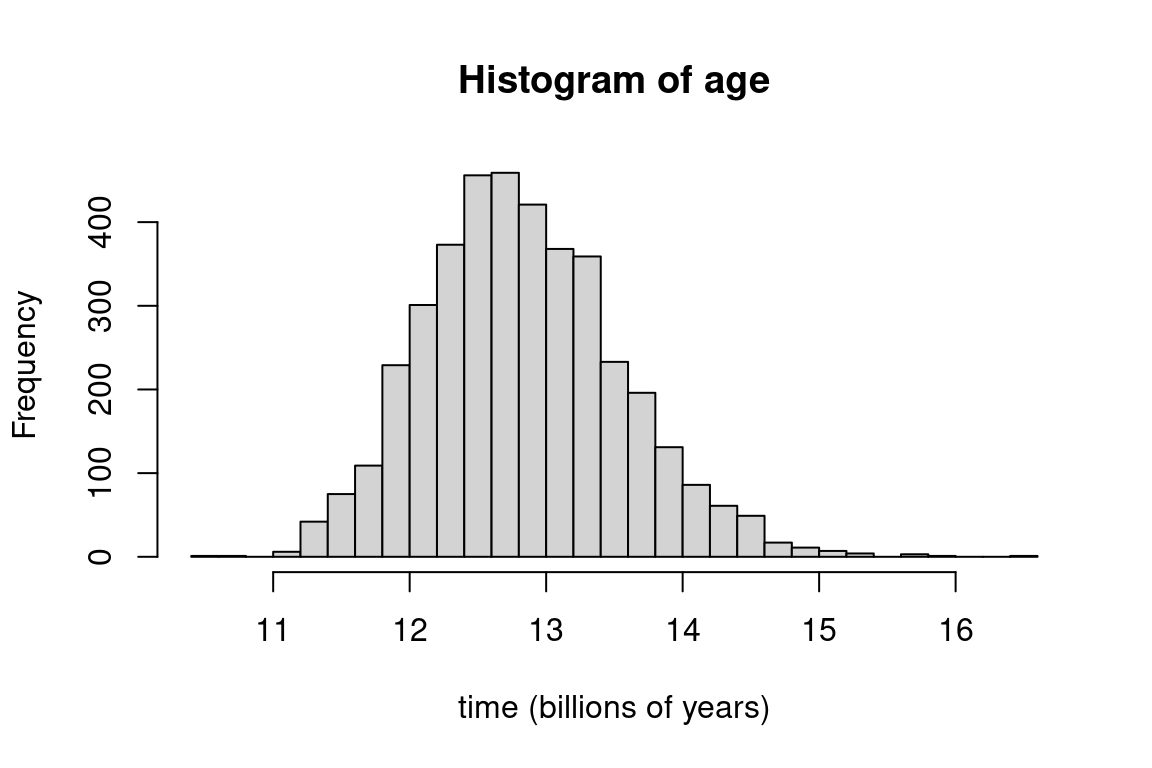
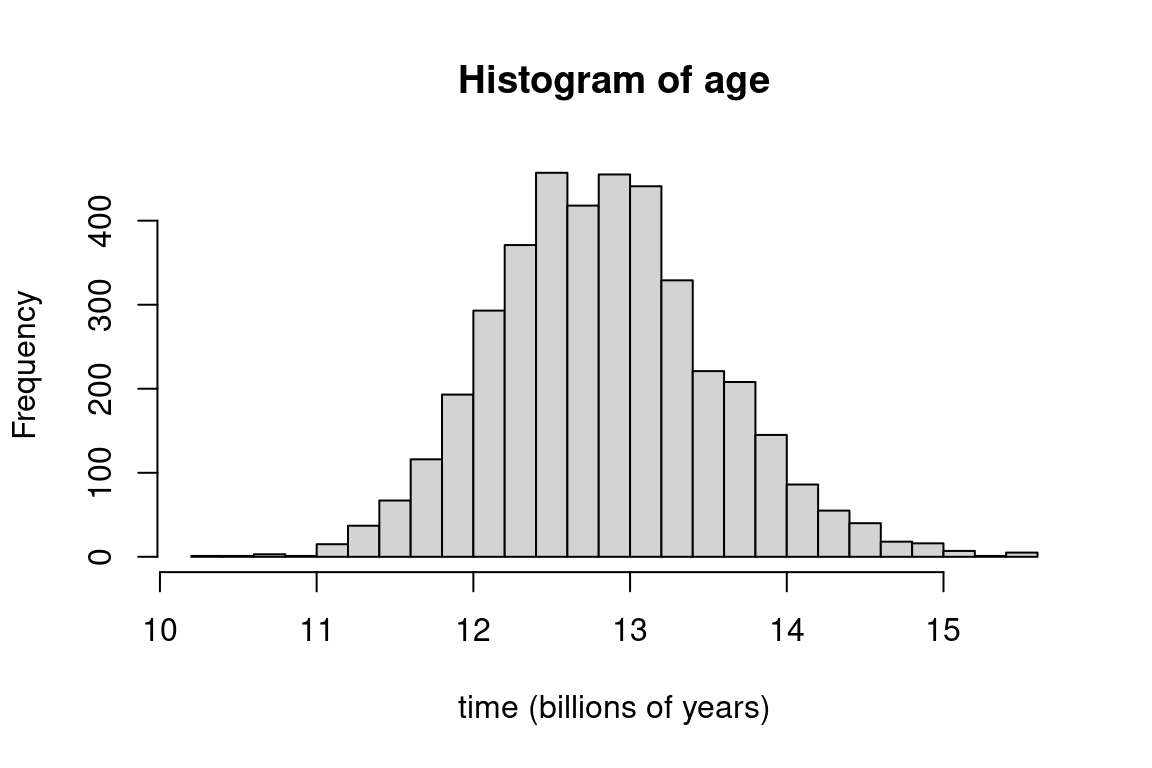
minor edits

diff --git a/slides.html b/slides.html
@@ -416,31 +416,35 @@ Matteo Lisi
 </figure>
 </div>
 </div><div class="column" style="width:40%;">
-<div class="fragment">
 <div class="quarto-figure quarto-figure-center">
 <figure>
 <p><img data-src="img/meme_leaving.png" class="quarto-figure quarto-figure-center" style="width:90.0%"></p>
 </figure>
 </div>
-</div>
 </div></div>
+<div class="fragment">
+<div class="quarto-figure quarto-figure-center">
+<figure>
+<p><img data-src="img/logo_stan.png" style="width:10.0%"></p>
+<figcaption>https://mc-stan.org/</figcaption>
+</figure>
+</div>
+</div>
 </section>
 <section id="outline" class="slide level2">
 <h2>Outline</h2>
 <div>
 <ol type="1">
-<li class="fragment">How to fit a model to data: frequentist &amp; Bayesian approaches</li>
-<li class="fragment">Computations in Bayesian inference &amp; MCMC sampling</li>
-<li class="fragment">Examples:</li>
-</ol>
+<li><p>How to fit a model to data: frequentist &amp; Bayesian approaches</p></li>
+<li><p>Computations in Bayesian inference &amp; MCMC sampling</p></li>
+<li><p>Examples:</p>
 <ul>
-<li class="fragment">Linear regression</li>
-<li class="fragment">Overdispersed Poisson GLMM</li>
-<li class="fragment">Lapse-augmented probit GLMM.</li>
-</ul>
-<ol start="5" type="1">
-<li class="fragment">Priors</li>
-<li class="fragment">Bayes factors</li>
+<li>Linear regression</li>
+<li>Overdispersed Poisson GLMM</li>
+<li>Lapse-augmented probit GLMM.</li>
+</ul></li>
+<li><p>Priors</p></li>
+<li><p>Bayes factors</p></li>
 </ol>
 </div>
 </section>
@@ -448,8 +452,8 @@ Matteo Lisi
 <h2>Fitting a model: frequentist approach</h2>
 <div>
 <ul>
-<li class="fragment">Maximum likelihood estimation (MLE)</li>
-<li class="fragment"><strong>Likelihood function</strong>: a function that gives the probability of the data, given some parameter values.</li>
+<li>Maximum likelihood estimation (MLE)</li>
+<li><strong>Likelihood function</strong>: a function that gives the probability of the data, given some parameter values.</li>
 </ul>
 </div>
 </section>
@@ -475,7 +479,7 @@ Matteo Lisi
 <h2>Likelihood function</h2>
 <ul>
 <li class="fragment"><p>Defined as the probability of the data as a function of the parameters, usually notated as <span class="math inline">\(p(\text{data} \mid \text{parameters})\)</span>.</p></li>
-<li class="fragment"><p>For a simple linear regression <span class="math display">\[y_i= \beta_0 + \beta_1x_i+\epsilon_i\]</span> <span class="math display">\[\epsilon_i \sim \mathcal{N}(0, \sigma^2)\]</span> the likelihood is <span class="math display">\[p(\underbrace{y, x}_{\text{data}} \mid \underbrace{\beta_0, \beta_1, \sigma^2}_{\text{parameters}} ) = \underbrace{\prod_{i=1}^{n}}_{\text{product}} \,\, \underbrace{\mathcal{N}(\overbrace{\beta_0 + \beta_1 x_i}^{\text{predicted value}}\,\,,\,\,\, \sigma^2)}_{\text{Gaussian probability density}}\]</span></p></li>
+<li class="fragment"><p>For a simple linear regression <span class="math display">\[y_i= \beta_0 + \beta_1x_i+\epsilon_i\]</span> <span class="math display">\[\epsilon_i \sim \mathcal{N}(0, \sigma^2)\]</span> the likelihood is <span class="math display">\[p(\underbrace{y}_{\text{data}} \mid \underbrace{\beta_0, \beta_1, \sigma^2}_{\text{parameters}} ) = \underbrace{\prod_{i=1}^{n}}_{\text{product}} \,\, \underbrace{\mathcal{N}(\overbrace{\beta_0 + \beta_1 x_i}^{\text{predicted value}}\,\,,\,\,\, \sigma^2)}_{\text{Gaussian pdf}}\]</span></p></li>
 </ul>
 </section>
 <section id="likelihood-function-1" class="slide level2">
@@ -483,7 +487,7 @@ Matteo Lisi
 <p>In practice, we usually work with the logarithm of the likelihood function (<em>log-likelihood</em>)</p>
 <p><br></p>
 <p><span class="math display">\[\begin{align}
-\mathcal{L}(y, x \mid \beta_0, \beta_1, \sigma^2 )  &amp; = \log \left[ L(y, x \mid \beta_0, \beta_1, \sigma^2)  \right]\\
+\mathcal{L}(y \mid \beta_0, \beta_1, \sigma^2 )  &amp; = \log \left[ L(y \mid \beta_0, \beta_1, \sigma^2)  \right]\\
   = -\frac{n}{2}\log(2\pi) &amp; - \frac{n}{2}\log(\sigma^2) - \frac{1}{2\sigma^2} \underbrace{\sum_{i=1}^n \left( y_i - \beta_0 - \beta_1 x_i\right)^2}_{\text{sum of squared residual errors}}\\
 \end{align}\]</span></p>
 <ul>
@@ -800,6 +804,7 @@ Matteo Lisi
 <ol type="1">
 <li class="fragment"><p>Linear regression</p></li>
 <li class="fragment"><p>Overdispersed Poisson GLMM</p></li>
+<li class="fragment"><p>Lapse-augmented probit GLMM.</p></li>
 </ol>
 </section>
 <section>
@@ -954,10 +959,10 @@ Matteo Lisi
 post-warmup draws per chain=1000, total post-warmup draws=4000.
 
         mean se_mean    sd   2.5%    50%  97.5% n_eff Rhat
-beta   76.60    0.07  4.20  68.18  76.68  84.75  3210    1
-sigma 273.99    0.86 42.65 207.16 268.62 369.71  2487    1
+beta   76.55    0.08  4.19  68.35  76.50  84.84  2558    1
+sigma 273.50    0.97 44.17 204.91 267.99 380.80  2092    1
 
-Samples were drawn using NUTS(diag_e) at Mon Nov 10 14:39:13 2025.
+Samples were drawn using NUTS(diag_e) at Thu Nov  6 17:12:27 2025.
 For each parameter, n_eff is a crude measure of effective sample size,
 and Rhat is the potential scale reduction factor on split chains (at 
 convergence, Rhat=1).</code></pre>
@@ -983,12 +988,12 @@ convergence, Rhat=1).</code></pre>
 <pre><code># A tibble: 6 × 4
   .chain .iteration .draw  beta
    &lt;int&gt;      &lt;int&gt; &lt;int&gt; &lt;dbl&gt;
-1      1          1     1  67.8
-2      1          2     2  77.0
-3      1          3     3  78.2
-4      1          4     4  78.4
-5      1          5     5  74.6
-6      1          6     6  80.9</code></pre>
+1      1          1     1  79.4
+2      1          2     2  74.8
+3      1          3     3  74.6
+4      1          4     4  81.8
+5      1          5     5  81.1
+6      1          6     6  80.8</code></pre>
 </div>
 </div>
 </section>
@@ -1010,7 +1015,7 @@ convergence, Rhat=1).</code></pre>
 <span id="cb26-13"><a href="" aria-hidden="true" tabindex="-1"></a><span class="co"># point estimate</span></span>
 <span id="cb26-14"><a href="" aria-hidden="true" tabindex="-1"></a><span class="fu">mean</span>(age)</span></code><button title="Copy to Clipboard" class="code-copy-button"><i class="bi"></i></button></pre></div>
 <div class="cell-output cell-output-stdout">
-<pre><code>[1] 12.83049</code></pre>
+<pre><code>[1] 12.83895</code></pre>
 </div>
 </div>
 <div class="cell">
@@ -1021,7 +1026,7 @@ convergence, Rhat=1).</code></pre>
 <span id="cb28-5"><a href="" aria-hidden="true" tabindex="-1"></a>      <span class="at">digits=</span><span class="dv">2</span>)</span></code><button title="Copy to Clipboard" class="code-copy-button"><i class="bi"></i></button></pre></div>
 <div class="cell-output cell-output-stdout">
 <pre><code> 2.5% 97.5% 
-11.56 14.37 </code></pre>
+11.55 14.34 </code></pre>
 </div>
 </div>
 </section>
